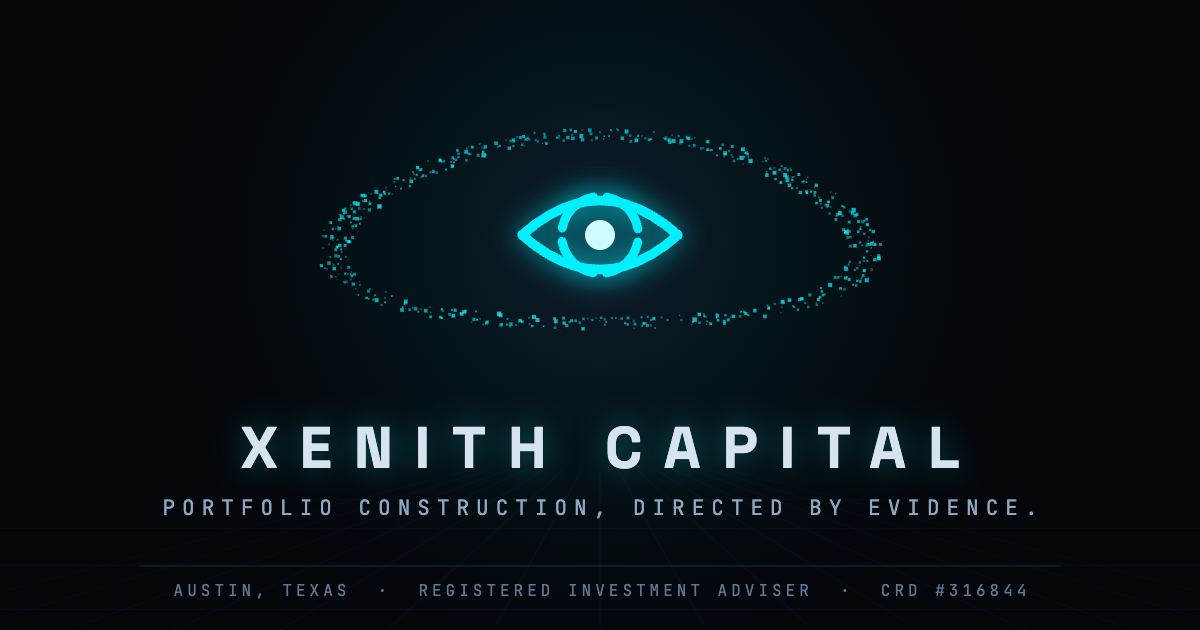
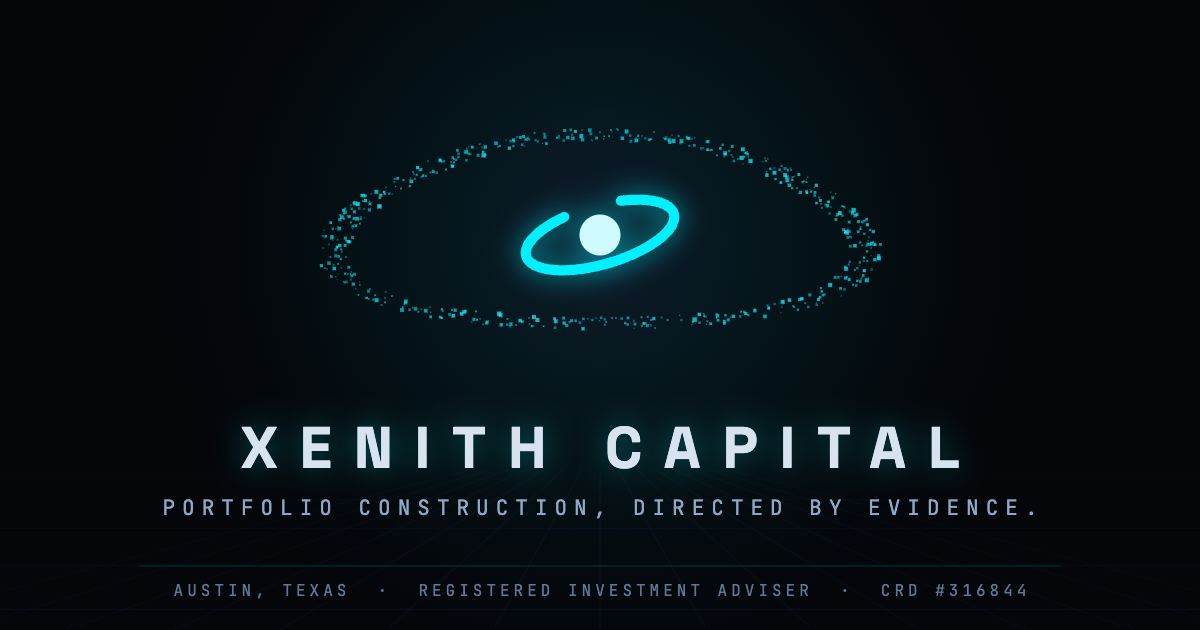
v7.3: THE ORBITAL — final mark (perspective ring + core)
One orbit ring in true 3D, broken where it passes behind the bright
core. Two elements. Reads as the watching eye, the orbit holding the
capital, and the site's ring-formation grammar in miniature. Replaces
the aperture-eye across topbar, boot, 404, favicon, og card.

Changed region(s): [[0.4317, 0.2714, 0.5858, 0.4524]]

diff --git a/index.html b/index.html
@@ -24,10 +24,10 @@
 <div id="x-boot" aria-hidden="true">
   <div class="x-boot-inner">
     <svg class="x-boot-mark" viewBox="0 0 32 32" fill="none" aria-hidden="true">
-      <path d="M3 16 Q16 4.5 29 16 Q16 27.5 3 16 Z" stroke="currentColor" stroke-width="1.6" stroke-linejoin="round"/>
-      <circle cx="16" cy="16" r="6.4" stroke="currentColor" stroke-width="1.5"
-              stroke-dasharray="7.85 2.2" stroke-dashoffset="3.9" transform="rotate(45 16 16)"/>
-      <circle cx="16" cy="16" r="2.5" fill="#cffaff"/>
+      <g transform="rotate(-16 16 16)">
+        <path d="M11.4 11.75 A 12 4.6 0 1 0 20.6 11.75" stroke="currentColor" stroke-width="1.6" stroke-linecap="round"/>
+      </g>
+      <circle cx="16" cy="16" r="3.2" fill="#cffaff"/>
     </svg>
     <div class="x-boot-brand">XENITH CAPITAL</div>
     <div class="x-boot-log" id="x-boot-log"></div>
@@ -42,11 +42,12 @@
 <header id="x-topbar">
   <div class="xtb-l">
     <svg class="x-mark" viewBox="0 0 32 32" fill="none" aria-hidden="true">
-      <!-- THE VIGIL: machine-aperture eye — the watching mind of the firm -->
-      <path d="M3 16 Q16 4.5 29 16 Q16 27.5 3 16 Z" stroke="currentColor" stroke-width="1.6" stroke-linejoin="round"/>
-      <circle cx="16" cy="16" r="6.4" stroke="currentColor" stroke-width="1.5"
-              stroke-dasharray="7.85 2.2" stroke-dashoffset="3.9" transform="rotate(45 16 16)"/>
-      <circle cx="16" cy="16" r="2.5" fill="currentColor"/>
+      <!-- THE ORBITAL: one ring in true perspective around the core,
+           broken where it passes behind — the vigil, in motion -->
+      <g transform="rotate(-16 16 16)">
+        <path d="M11.4 11.75 A 12 4.6 0 1 0 20.6 11.75" stroke="currentColor" stroke-width="1.6" stroke-linecap="round"/>
+      </g>
+      <circle cx="16" cy="16" r="3.2" fill="currentColor"/>
     </svg>
     <span class="xtb-brand">XENITH CAPITAL</span>
   </div>

diff --git a/404.html b/404.html
@@ -175,10 +175,10 @@ h1{
 <body>
 <main class="deck">
   <svg class="mark" viewBox="0 0 32 32" fill="none" aria-hidden="true">
-    <path d="M3 16 Q16 4.5 29 16 Q16 27.5 3 16 Z" stroke="currentColor" stroke-width="1.6" stroke-linejoin="round"/>
-    <circle cx="16" cy="16" r="6.4" stroke="currentColor" stroke-width="1.5"
-            stroke-dasharray="7.85 2.2" stroke-dashoffset="3.9" transform="rotate(45 16 16)"/>
-    <circle cx="16" cy="16" r="2.5" fill="currentColor"/>
+    <g transform="rotate(-16 16 16)">
+      <path d="M11.4 11.75 A 12 4.6 0 1 0 20.6 11.75" stroke="currentColor" stroke-width="1.6" stroke-linecap="round"/>
+    </g>
+    <circle cx="16" cy="16" r="3.2" fill="currentColor"/>
   </svg>
   <p class="eyebrow">ROUTE NOT FOUND // SIGNAL LOST</p>
   <h1>DOCUMENT NOT FOUND</h1>
